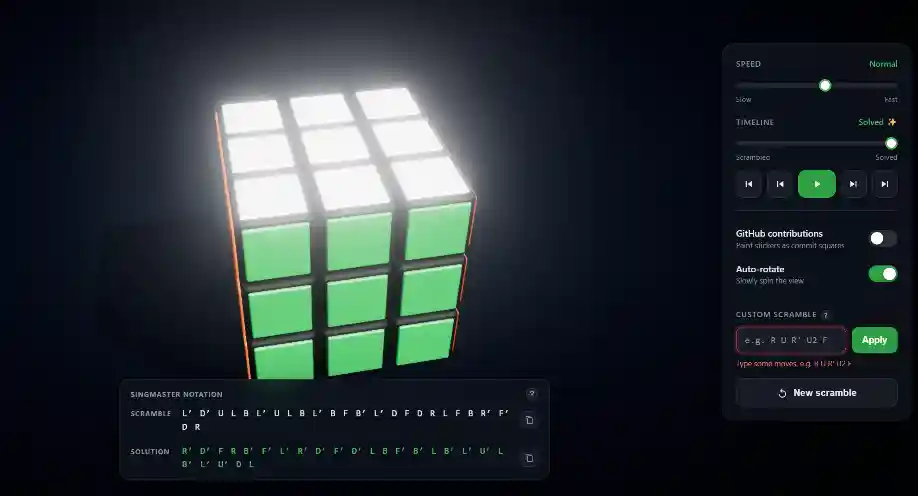
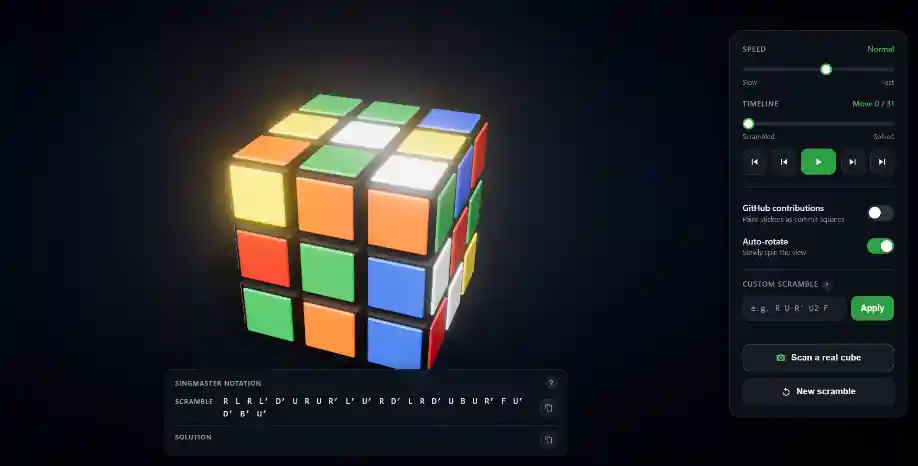
sync projects

diff --git a/githubExamples.js b/githubExamples.js
@@ -377,6 +377,15 @@ export default [
                 image: HOST + 'images/openThree.webp',
             },
             {
+                id: 'rubiks-rubrics',
+                name: 'rubiks-rubrics',
+                name_en: 'rubiks-rubrics',
+                author: 'AUTO',
+                openUrl: 'https://leereilly.net/rubiks-rubrics/',
+                githubUrl: 'https://github.com/leereilly/rubiks-rubrics',
+                image: HOST + 'images/rubiks-rubrics.webp',
+            },
+            {
                 id: 'ecctrl',
                 name: 'ecctrl',
                 name_en: 'ecctrl',